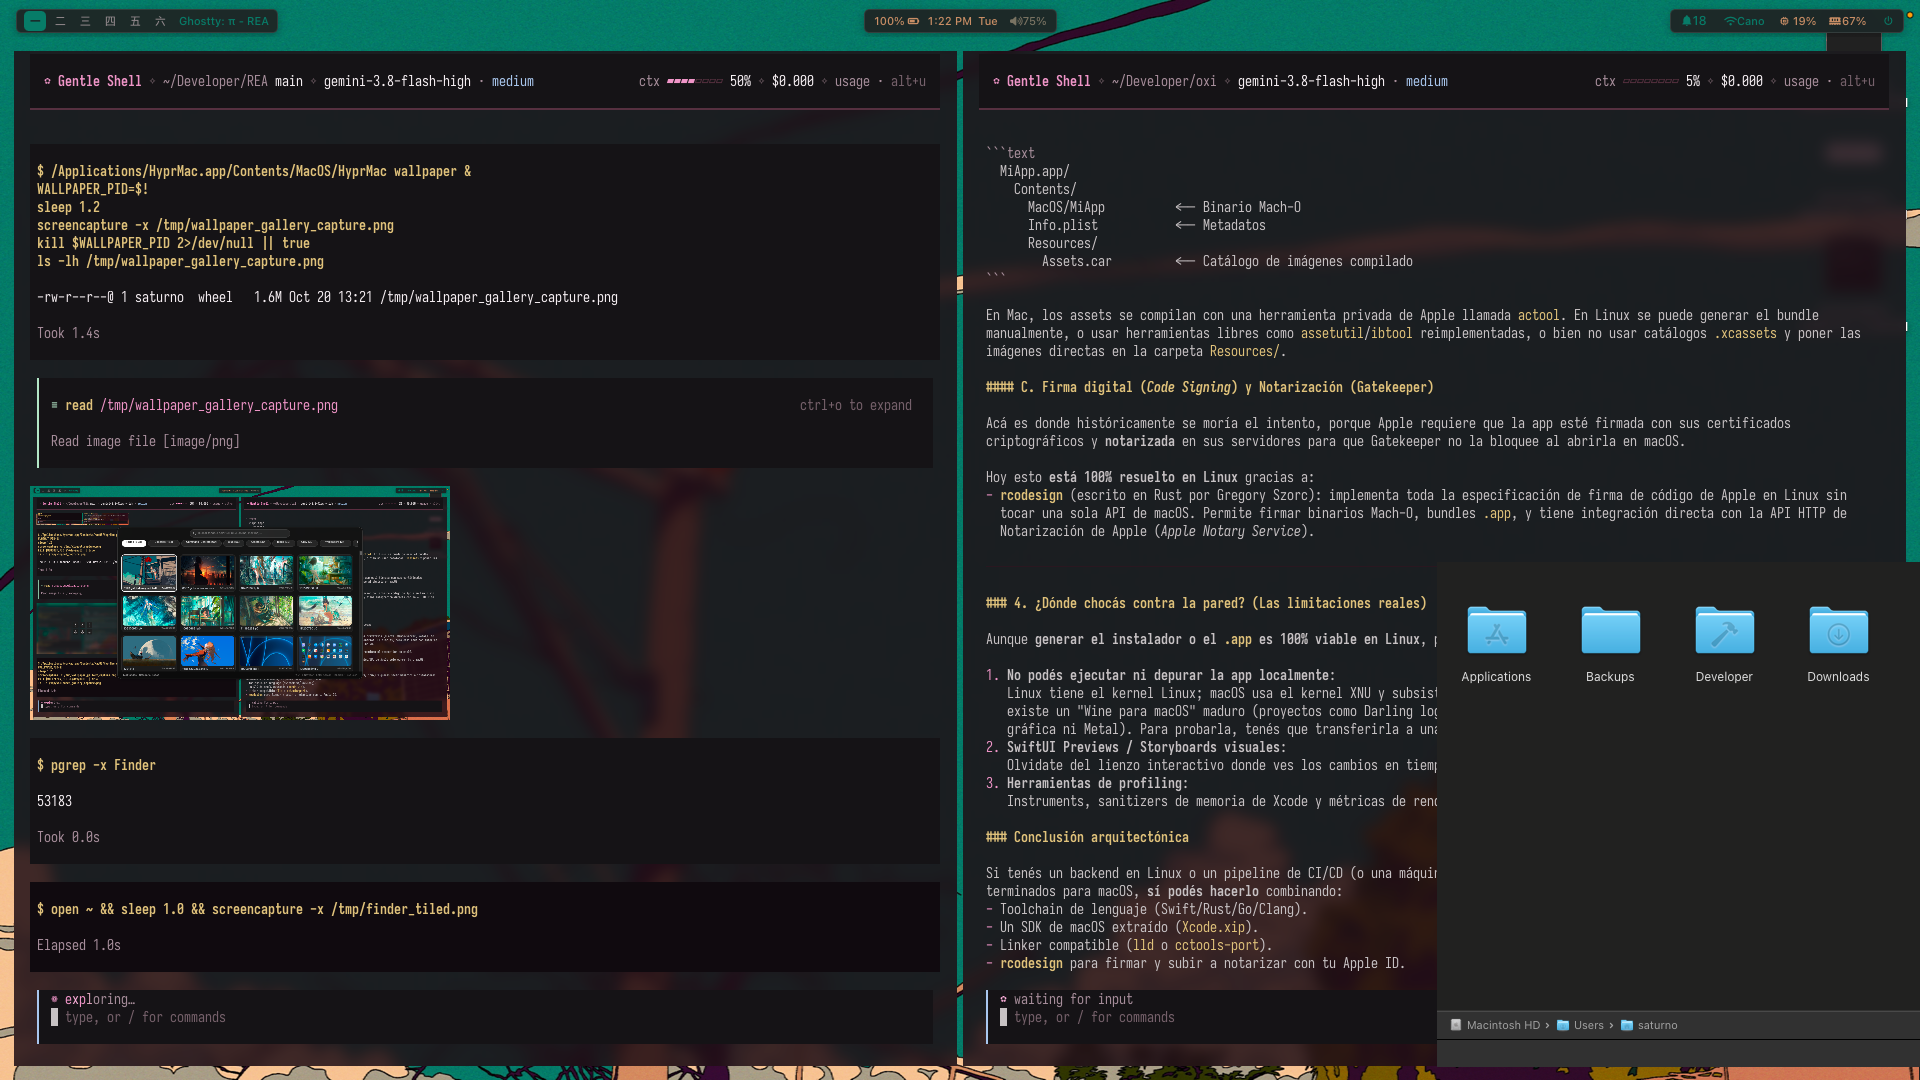
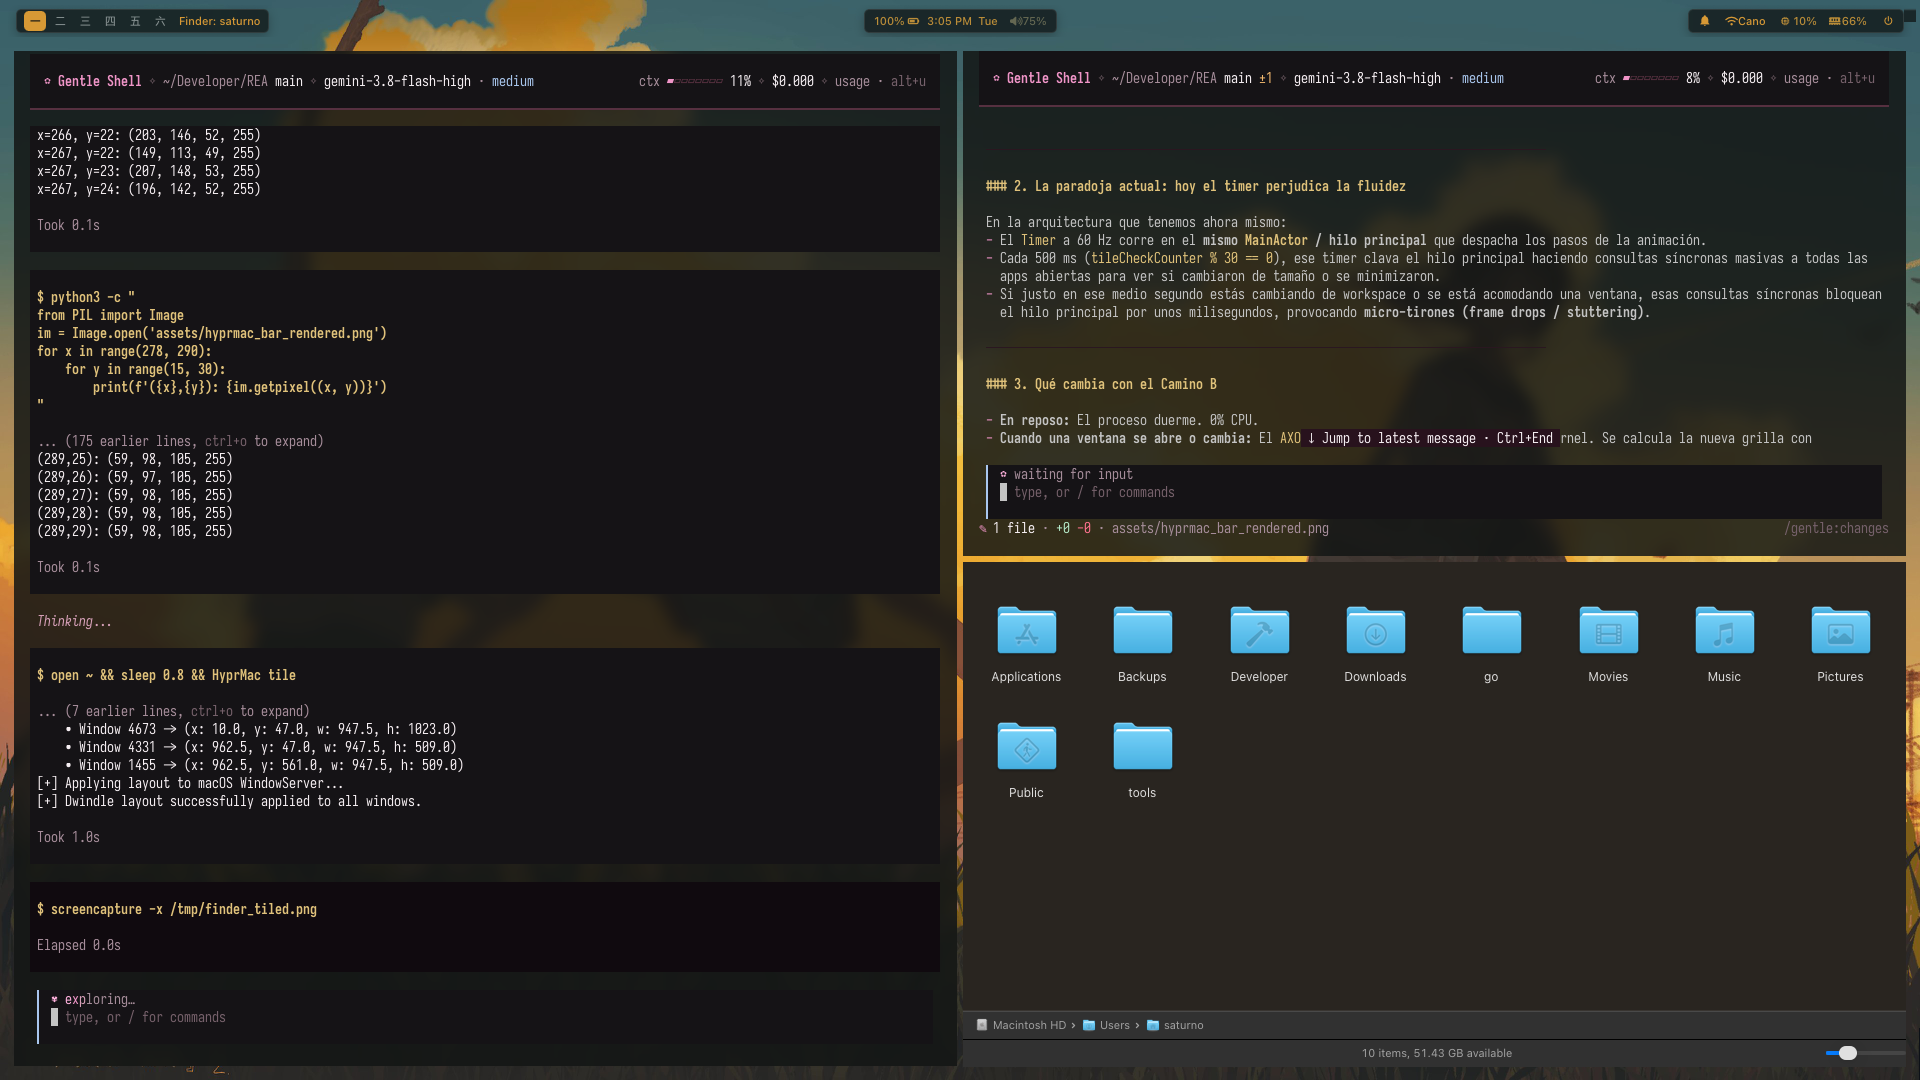
docs: update showcase screenshots and README to reflect frameless tiling and 3-island HyprBar

diff --git a/README.md b/README.md
@@ -160,21 +160,17 @@ HyprMac daemon
 ## Key Features
 
 ### 🪟 Fibonacci / Dwindle Tiling
-Windows automatically tile in organic binary-tree spirals according to aspect ratio. Supports directional focus (`Alt + H/J/K/L`), window swaps (`Alt + Shift + H/J/K/L`), fullscreen toggle (`Alt + F`), floating toggle (`Alt + V`), split ratio adjustments, and smooth mouse drag-and-drop.
+Windows automatically tile in organic binary-tree spirals according to aspect ratio, born 100% frameless, square, and shadowless directly from `WindowServer`. Supports directional focus (`Alt + H/J/K/L`), window swaps (`Alt + Shift + H/J/K/L`), fullscreen toggle (`Alt + F`), floating toggle (`Alt + V`), split ratio adjustments, and smooth mouse drag-and-drop.
 
 <p align="center">
   <img src="assets/showcase/01_dwindle_tiling.png" alt="Dwindle Tiling on macOS" width="850"/>
 </p>
 
 ### 📊 HyprBar (Waybar for macOS)
-Floating translucent pill bar rendered with native AppKit and behind-window blur. Displays:
-- Workspaces 1–9 (Arabic or Kanji numerals) with active indicator
-- Active application icon and window title
-- Battery status & charging indicator
-- Clock (12h or 24h custom strftime)
-- Live CPU & RAM hardware load
-- Volume and Wi-Fi SSID
-- Notification badge
+Three independent floating translucent glass capsules rendered with native AppKit and behind-window blur:
+- **Left Island**: Japanese Kanji workspaces (`一` to `六`) with active indicator pill and compact active window title/icon.
+- **Center Island**: Battery telemetry & charging indicator, live clock & day, and system volume level.
+- **Right Island**: Notification center badge, Wi-Fi SSID, live hardware telemetry (CPU & RAM load), and Wlogout power menu launcher.
 
 <p align="center">
   <img src="assets/hyprmac_bar_rendered.png" alt="HyprBar Waybar status bar" width="850"/>
